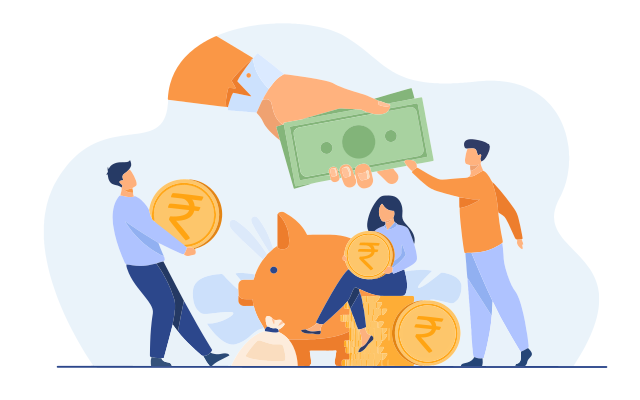
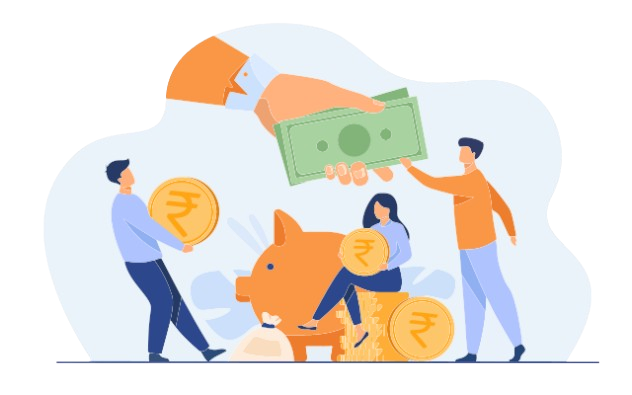
feat:user personal profile area done,, connected frontend to backend

diff --git a/src/views/components/Navbar/Navbar.jsx b/src/views/components/Navbar/Navbar.jsx
@@ -7,7 +7,7 @@ import { useAuthController } from '../../../controllers/auth/useAuthController';
 import { apiClient } from '../../../utils/apiClient';
 
 // Global sliding profile sidebar React Portal component (Nested Sub-Views System)
-const UserSidebar = ({ isOpen, onClose, user, signOut, navigate, initialView = 'menu' }) => {
+const UserSidebar = ({ isOpen, onClose, user, signOut, navigate, initialView = 'menu', showToast }) => {
   // Navigation stack state ('menu', 'profile', 'kyc', 'loan', 'repayment', 'feedback')
   const [currentView, setCurrentView] = useState(initialView);
   const [walletBalance, setWalletBalance] = useState(0);
@@ -161,7 +161,7 @@ const UserSidebar = ({ isOpen, onClose, user, signOut, navigate, initialView = '
   const handleAddBankAccount = (e) => {
     e.preventDefault();
     if (!newBankName || !newAccNum || !newIfsc) {
-      alert('Please fill out all bank credentials.');
+      showToast('Please fill out all bank credentials.', 'error');
       return;
     }
     const maskedAcc = '•••• •••• ' + newAccNum.slice(-4);
@@ -177,7 +177,7 @@ const UserSidebar = ({ isOpen, onClose, user, signOut, navigate, initialView = '
     setNewAccNum('');
     setNewIfsc('');
     setShowAddBank(false);
-    alert('Bank account successfully verified and linked to LendoGo Wallet!');
+    showToast('Bank account successfully verified and linked to LendoGo Wallet!', 'success');
   };
 
   // Set Bank Account as primary
@@ -193,7 +193,7 @@ const UserSidebar = ({ isOpen, onClose, user, signOut, navigate, initialView = '
     if (confirm('Are you sure you want to unlink this bank account from LendoGo?')) {
       const bank = bankAccounts.find(b => b.id === id);
       if (bank && bank.isPrimary && bankAccounts.length > 1) {
-        alert('Please select another primary bank before unlinking this one.');
+        showToast('Please select another primary bank before unlinking this one.', 'error');
         return;
       }
       setBankAccounts(prev => prev.filter(b => b.id !== id));
@@ -284,16 +284,17 @@ const UserSidebar = ({ isOpen, onClose, user, signOut, navigate, initialView = '
       window.dispatchEvent(new Event('user-details-changed'));
       setSelectedPhotoFile(null);
       setCurrentView('menu');
+      showToast('Profile details updated successfully.', 'success');
     } catch (err) {
       console.error("Failed to save personal details:", err);
-      alert("Failed to save personal details: " + err.message);
+      showToast("Failed to save personal details: " + err.message, "error");
     }
   };
 
   const handleSaveKyc = (e) => {
     e.preventDefault();
     if (panNumber.length < 10 || aadhaarNumber.replace(/\s/g, '').length < 12) {
-      alert('Invalid PAN or Aadhaar format.');
+      showToast('Invalid PAN or Aadhaar format.', 'error');
       return;
     }
     localStorage.setItem('kyc_status', 'VERIFIED');
@@ -304,13 +305,13 @@ const UserSidebar = ({ isOpen, onClose, user, signOut, navigate, initialView = '
     localStorage.setItem('kyc_income', monthlyIncome);
     localStorage.setItem('kyc_verified_address', kycAddress);
     window.dispatchEvent(new Event('user-details-changed'));
-    alert('KYC documents submitted and verified.');
+    showToast('KYC documents submitted and verified.', 'success');
     setCurrentView('menu');
   };
 
   const handleSubmitFeedback = (e) => {
     e.preventDefault();
-    alert(`Thank you for your feedback! Rating: ${feedbackRating}/5 stars. Comments submitted.`);
+    showToast(`Thank you for your feedback! Rating: ${feedbackRating}/5 stars. Comments submitted.`, 'success');
     setFeedbackComment('');
     setCurrentView('menu');
   };
@@ -772,7 +773,7 @@ const UserSidebar = ({ isOpen, onClose, user, signOut, navigate, initialView = '
                 <button 
                   type="button" 
                   className="card-repayment-action-btn"
-                  onClick={() => alert('Redirecting to secure repayment gateway...')}
+                  onClick={() => showToast('Redirecting to secure repayment gateway...', 'info')}
                 >
                   Make a Repayment
                 </button>
@@ -1035,7 +1036,7 @@ const UserSidebar = ({ isOpen, onClose, user, signOut, navigate, initialView = '
               <button 
                 type="button" 
                 className="sidebar-make-repayment-unified-btn mt-3"
-                onClick={() => alert('Launching Secure Repayment Gateway...')}
+                onClick={() => showToast('Launching Secure Repayment Gateway...', 'info')}
               >
                 Make a Repayment
               </button>
@@ -1140,6 +1141,21 @@ const Navbar = () => {
   const [sidebarInitialView, setSidebarInitialView] = useState('menu');
   const [notificationsDropdownOpen, setNotificationsDropdownOpen] = useState(false);
   const navbarRef = useRef(null);
+
+  const [toast, setToast] = useState(null);
+
+  const showToast = (message, type = 'success') => {
+    setToast({ message, type });
+  };
+
+  useEffect(() => {
+    if (toast) {
+      const timer = setTimeout(() => {
+        setToast(null);
+      }, 4000);
+      return () => clearTimeout(timer);
+    }
+  }, [toast]);
 
   const [profileDp, setProfileDp] = useState(
     localStorage.getItem('user_dp') || 'https://cdn.pixabay.com/photo/2015/10/05/22/37/blank-profile-picture-973460_1280.png'
@@ -1318,7 +1334,7 @@ const Navbar = () => {
                   <div className="notifications-dropdown-menu">
                     <div className="notifications-header">
                       <h5>Notifications</h5>
-                      <button type="button" className="mark-all-read-btn" onClick={() => alert('All notifications marked as read!')}>Mark all read</button>
+                      <button type="button" className="mark-all-read-btn" onClick={() => showToast('All notifications marked as read!', 'success')}>Mark all read</button>
                     </div>
                     <div className="notifications-list">
                       <div 
@@ -1395,6 +1411,7 @@ const Navbar = () => {
                   signOut={signOut}
                   navigate={navigate}
                   initialView={sidebarInitialView}
+                  showToast={showToast}
                 />
               </div>
             </>
@@ -1511,6 +1528,21 @@ const Navbar = () => {
     </nav>
 
     <ConsultationModal isOpen={modalOpen} onClose={() => setModalOpen(false)} />
+
+    {toast && (
+      <div className="lendogo-toast-container">
+        <div className={`lendogo-toast ${toast.type}`}>
+          <div className="lendogo-toast-content">{toast.message}</div>
+          <button 
+            type="button" 
+            className="lendogo-toast-close" 
+            onClick={() => setToast(null)}
+          >
+            ×
+          </button>
+        </div>
+      </div>
+    )}
     </>
   );
 };

diff --git a/src/views/components/Navbar/Navbar.css b/src/views/components/Navbar/Navbar.css
@@ -1724,3 +1724,82 @@
   font-weight: 650;
   padding: 1.25rem;
 }
+
+/* Toast Notifications */
+.lendogo-toast-container {
+  position: fixed;
+  bottom: 24px;
+  right: 24px;
+  z-index: 100000;
+  display: flex;
+  flex-direction: column;
+  gap: 12px;
+  max-width: 380px;
+  width: calc(100% - 48px);
+  pointer-events: none;
+}
+
+.lendogo-toast {
+  pointer-events: auto;
+  background-color: #ffffff;
+  color: #0f172a;
+  border-radius: 8px;
+  padding: 12px 16px;
+  box-shadow: 0 4px 12px rgba(15, 23, 42, 0.15);
+  border-left: 4px solid var(--primary, #0f66ff);
+  font-family: inherit;
+  font-size: 0.88rem;
+  font-weight: 600;
+  display: flex;
+  justify-content: space-between;
+  align-items: center;
+  gap: 12px;
+  animation: toast-slide-in 0.3s cubic-bezier(0.16, 1, 0.3, 1) forwards;
+  transition: all 0.2s ease;
+}
+
+.lendogo-toast.success {
+  border-left-color: #10b981;
+}
+
+.lendogo-toast.error {
+  border-left-color: #ef4444;
+}
+
+.lendogo-toast.info {
+  border-left-color: #0f66ff;
+}
+
+.lendogo-toast-content {
+  flex: 1;
+  line-height: 1.4;
+}
+
+.lendogo-toast-close {
+  background: none;
+  border: none;
+  color: #94a3b8;
+  cursor: pointer;
+  font-size: 1.1rem;
+  line-height: 1;
+  padding: 0;
+  display: flex;
+  align-items: center;
+  justify-content: center;
+  transition: color 0.2s ease;
+}
+
+.lendogo-toast-close:hover {
+  color: #475569;
+}
+
+@keyframes toast-slide-in {
+  from {
+    transform: translateY(12px) scale(0.95);
+    opacity: 0;
+  }
+  to {
+    transform: translateY(0) scale(1);
+    opacity: 1;
+  }
+}

diff --git a/src/controllers/auth/useAuthController.js b/src/controllers/auth/useAuthController.js
@@ -45,6 +45,9 @@ export const AuthProvider = ({ children }) => {
       });
       
       localStorage.setItem('lendogo_user', JSON.stringify(loggedInUser));
+      if (data.token) {
+        localStorage.setItem('lendogo_token', data.token);
+      }
       setUser(loggedInUser);
       
       // 👇 FIX: Return the user so SignInForm can use it for routing
@@ -81,6 +84,9 @@ export const AuthProvider = ({ children }) => {
       isAuthenticated: true,
     });
     localStorage.setItem('lendogo_user', JSON.stringify(loggedInUser));
+    if (userData.token) {
+      localStorage.setItem('lendogo_token', userData.token);
+    }
     setUser(loggedInUser);
   };
 

diff --git a/src/views/components/SetPasswordForm/SetPasswordForm.jsx b/src/views/components/SetPasswordForm/SetPasswordForm.jsx
@@ -95,10 +95,13 @@ const SetPasswordForm = () => {
 
       const data = await response.json();
       if (response.ok) {
+        const backendUser = data.data || {};
         loginUserLocally({
-          id: data.id || 'unknown',
-          email: email,
-          name: fullName || 'LendoGO User',
+          id: backendUser.id || 'unknown',
+          email: backendUser.email || email,
+          name: backendUser.fullName || fullName || 'LendoGO User',
+          role: backendUser.role || 'user',
+          token: data.token,
         });
         navigate('/home'); 
       } else {

diff --git a/src/utils/apiClient.js b/src/utils/apiClient.js
@@ -12,6 +12,11 @@ export const apiClient = async (endpoint, options = {}) => {
     ...options.headers,
   };
 
+  const token = localStorage.getItem('lendogo_token');
+  if (token) {
+    headers['Authorization'] = `Bearer ${token}`;
+  }
+
   // ONLY set Content-Type to JSON if we are NOT sending files.
   // If it's FormData, the browser MUST set the header automatically to create the boundary!
   if (isFormData) {
